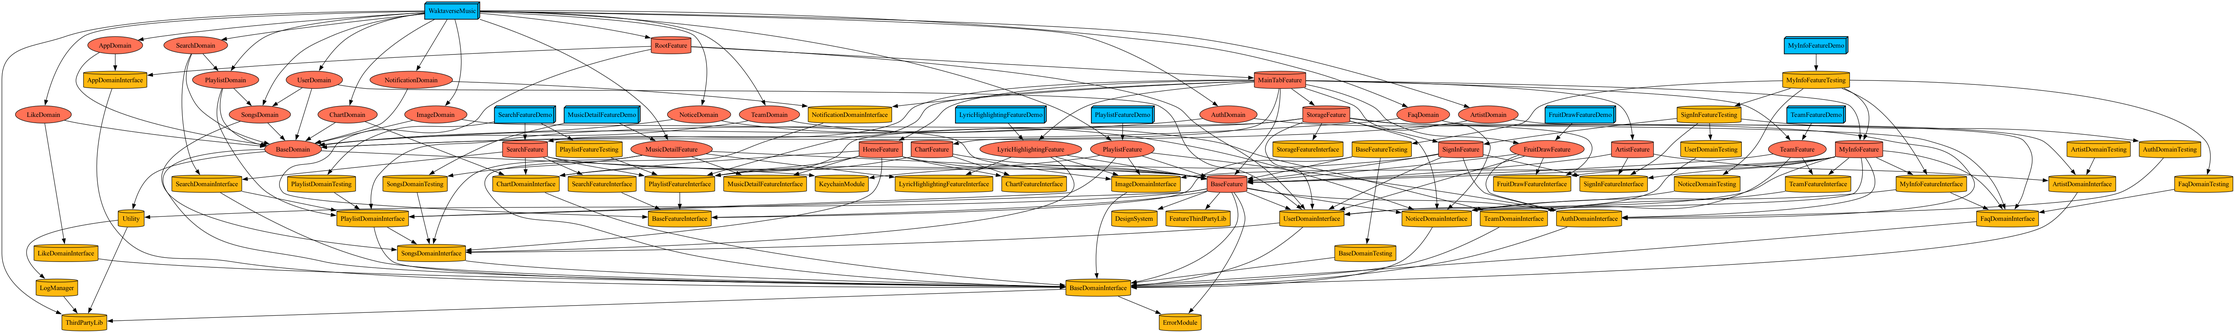
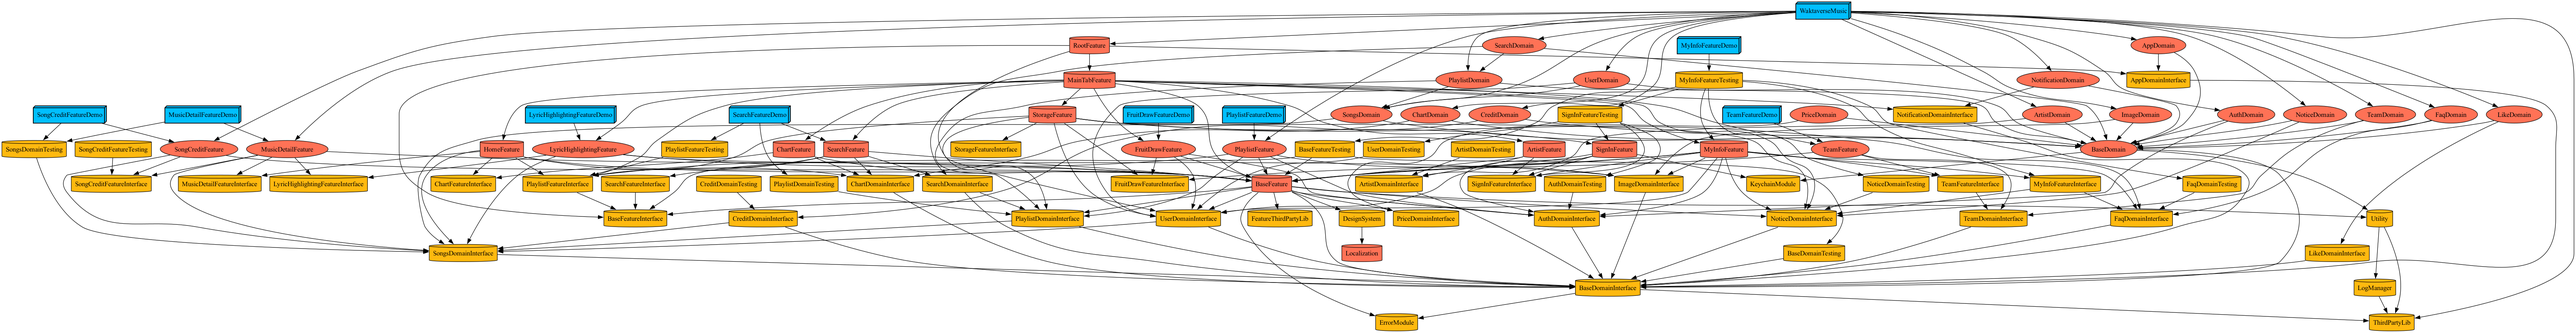
:zap: :: 유즈 케이스 주입

diff --git a/Projects/Features/BaseFeature/Sources/ViewModels/ContainSongsViewModel.swift b/Projects/Features/BaseFeature/Sources/ViewModels/ContainSongsViewModel.swift
@@ -8,12 +8,14 @@ import RxRelay
 import RxSwift
 import UserDomainInterface
 import Utility
+import PriceDomainInterface
 
 #warning("커스텀 에러 리스폰스 후추..")
 public final class ContainSongsViewModel: ViewModelType {
     private let fetchPlayListUseCase: any FetchPlaylistUseCase
     private let addSongIntoPlaylistUseCase: any AddSongIntoPlaylistUseCase
     private let createPlaylistUseCase: any CreatePlaylistUseCase
+    private let fetchPlaylistCreationPriceUsecase: any FetchPlaylistCreationPriceUsecase
     private let logoutUseCase: LogoutUseCase
     var songs: [String]!
     let disposeBag = DisposeBag()
@@ -29,7 +31,9 @@ public final class ContainSongsViewModel: ViewModelType {
     public struct Output {
         let dataSource: BehaviorRelay<[PlaylistEntity]> = BehaviorRelay(value: [])
         let showToastMessage: PublishSubject<BaseEntity> = PublishSubject()
+        let creationPrice: BehaviorRelay<Int> = BehaviorRelay<Int>(value: 2)
         let onLogout: PublishRelay<Error>
+        
 
         init(onLogout: PublishRelay<Error>) {
             self.onLogout = onLogout
@@ -41,11 +45,13 @@ public final class ContainSongsViewModel: ViewModelType {
         createPlaylistUseCase: any CreatePlaylistUseCase,
         fetchPlayListUseCase: any FetchPlaylistUseCase,
         addSongIntoPlaylistUseCase: any AddSongIntoPlaylistUseCase,
+        fetchPlaylistCreationPriceUsecase: any FetchPlaylistCreationPriceUsecase,
         logoutUseCase: LogoutUseCase
     ) {
         self.createPlaylistUseCase = createPlaylistUseCase
         self.fetchPlayListUseCase = fetchPlayListUseCase
         self.addSongIntoPlaylistUseCase = addSongIntoPlaylistUseCase
+        self.fetchPlaylistCreationPriceUsecase = fetchPlaylistCreationPriceUsecase
         self.logoutUseCase = logoutUseCase
         self.songs = songs
     }

diff --git a/Projects/Features/BaseFeature/Sources/Components/ContainSongsComponent.swift b/Projects/Features/BaseFeature/Sources/Components/ContainSongsComponent.swift
@@ -5,12 +5,15 @@ import NeedleFoundation
 import PlaylistDomainInterface
 import UIKit
 import UserDomainInterface
+import PriceDomainInterface
 
 public protocol ContainSongsDependency: Dependency {
     var multiPurposePopUpFactory: any MultiPurposePopupFactory { get }
     var fetchPlayListUseCase: any FetchPlaylistUseCase { get }
     var addSongIntoPlaylistUseCase: any AddSongIntoPlaylistUseCase { get }
     var createPlaylistUseCase: any CreatePlaylistUseCase { get }
+    var fetchPlaylistCreationPriceUsecase: any FetchPlaylistCreationPriceUsecase { get }
+    var textPopUpFactory: any TextPopUpFactory { get }
     var logoutUseCase: any LogoutUseCase { get }
 }
 
@@ -18,11 +21,13 @@ public final class ContainSongsComponent: Component<ContainSongsDependency>, Con
     public func makeView(songs: [String]) -> UIViewController {
         return ContainSongsViewController.viewController(
             multiPurposePopUpFactory: dependency.multiPurposePopUpFactory,
+            textPopUpFactory: dependency.textPopUpFactory,
             viewModel: .init(
                 songs: songs,
                 createPlaylistUseCase: dependency.createPlaylistUseCase,
                 fetchPlayListUseCase: dependency.fetchPlayListUseCase,
                 addSongIntoPlaylistUseCase: dependency.addSongIntoPlaylistUseCase,
+                fetchPlaylistCreationPriceUsecase: dependency.fetchPlaylistCreationPriceUsecase,
                 logoutUseCase: dependency.logoutUseCase
             )
         )

diff --git a/Projects/Features/BaseFeature/Sources/ViewControllers/ContainSongsViewController.swift b/Projects/Features/BaseFeature/Sources/ViewControllers/ContainSongsViewController.swift
@@ -17,6 +17,7 @@ public final class ContainSongsViewController: BaseViewController, ViewControlle
     @IBOutlet weak var subTitleLabel: UILabel!
 
     var multiPurposePopUpFactory: MultiPurposePopupFactory!
+    var textPopUpFactory: TextPopUpFactory!
 
     var viewModel: ContainSongsViewModel!
     lazy var input = ContainSongsViewModel.Input()
@@ -33,6 +34,7 @@ public final class ContainSongsViewController: BaseViewController, ViewControlle
 
     public static func viewController(
         multiPurposePopUpFactory: MultiPurposePopupFactory,
+        textPopUpFactory: TextPopUpFactory,
         viewModel: ContainSongsViewModel
     ) -> ContainSongsViewController {
         let viewController = ContainSongsViewController.viewController(
@@ -40,6 +42,7 @@ public final class ContainSongsViewController: BaseViewController, ViewControlle
             bundle: Bundle.module
         )
         viewController.multiPurposePopUpFactory = multiPurposePopUpFactory
+        viewController.textPopUpFactory = textPopUpFactory
         viewController.viewModel = viewModel
         return viewController
     }

diff --git a/Projects/App/Sources/Application/AppComponent+Price.swift b/Projects/App/Sources/Application/AppComponent+Price.swift
@@ -1,0 +1,33 @@
+import Foundation
+import PriceDomainInterface
+import PriceDomain
+
+extension AppComponent {
+
+    var remotePriceDataSource: any RemotePriceDataSource {
+        shared {
+            RemotePriceDataSourceImpl(keychain: keychain)
+        }
+    }
+
+    var priceRepository: any PriceRepository {
+        shared {
+            PriceRepositoryImpl(remotePriceDataSource: remotePriceDataSource)
+        }
+    }
+    
+    var fetchPlaylistCreationPriceUsecase: any FetchPlaylistCreationPriceUsecase {
+        shared {
+            FetchPlaylistCreationPriceUsecaseImpl(priceRepository: priceRepository)
+        }
+    }
+    
+    var fetchPlaylistImagePriceUsecase: any FetchPlaylistImagePriceUsecase {
+        shared {
+            FetchPlaylistImagePriceUsecaseImpl(priceRepository: priceRepository)
+        }
+    }
+
+
+    
+}

diff --git a/Projects/App/Project.swift b/Projects/App/Project.swift
@@ -48,7 +48,8 @@ let targets: [Target] = [
             .domain(target: .ImageDomain),
             .domain(target: .NotificationDomain),
             .domain(target: .TeamDomain),
-            .domain(target: .CreditDomain)
+            .domain(target: .CreditDomain),
+            .domain(target: .PriceDomain)
         ],
         settings: .settings(
             base: env.baseSetting,
